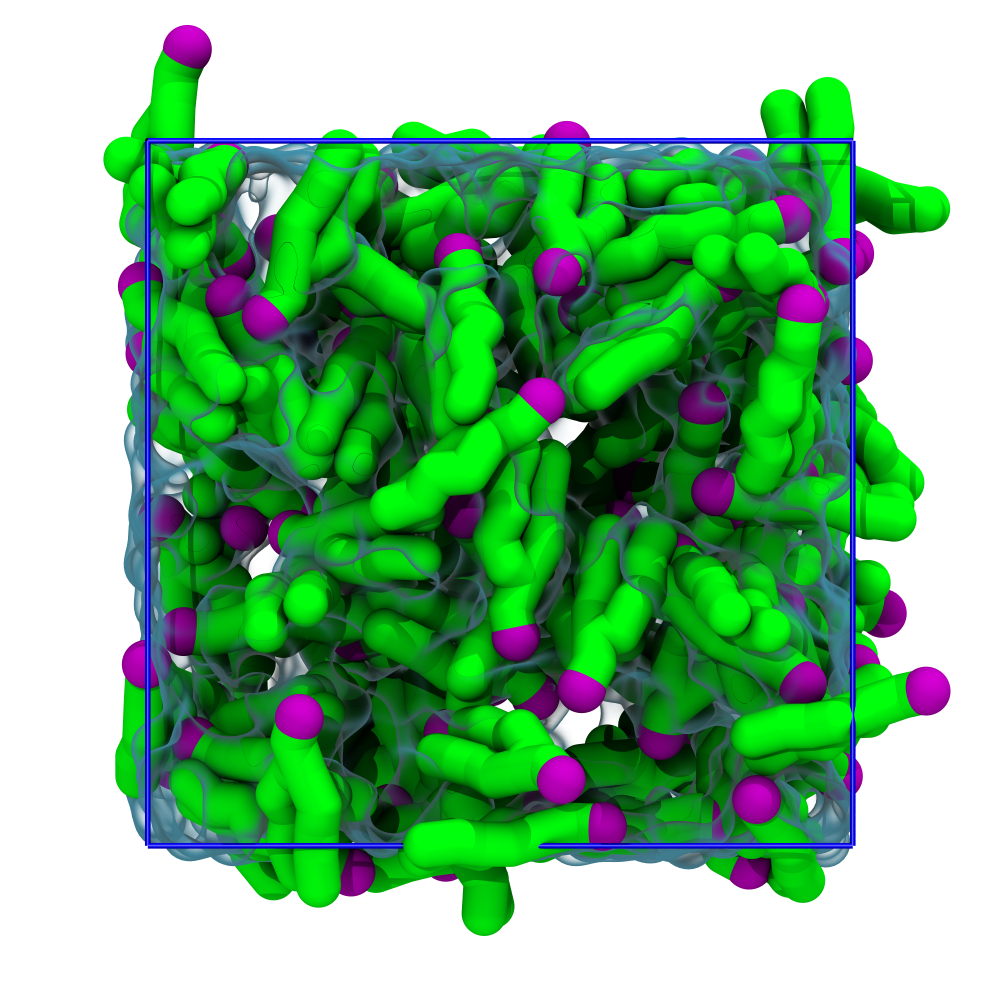
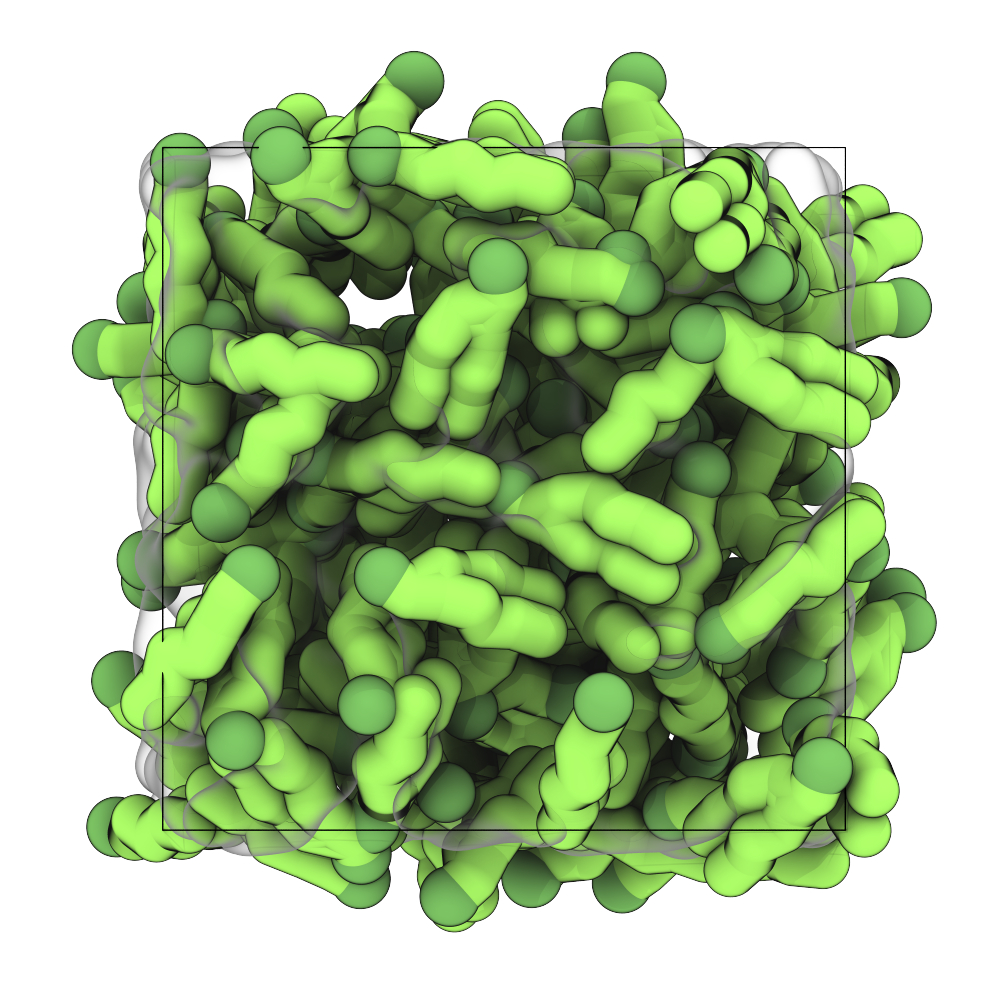
Update figures for Martini bilayer tutorial

diff --git a/Martini/01_bilayer_self_assembly/tutorial.md b/Martini/01_bilayer_self_assembly/tutorial.md
@@ -46,7 +46,10 @@ cd 01_bilayer_self_assembly
 
 ## 1. Prepare the starting structure
 
-<img align="right" width="25%" src="../figures/01_POPC_CG.png">
+<div align="right">
+    <img width="25%" src="../figures/01_POPC_CG.png">
+    <sub><i>Figure 1. Martini 3 representation of a POPC lipid.</i></sub>
+</div>
 
 We use POPC (1-palmitoyl-2-oleoyl-*sn*-glycero-3-phosphocholine) as our model
 lipid. It is one of the more abundant lipids in the JCVI-Syn3A minimal cell.
@@ -152,7 +155,7 @@ appears at the bottom of `topol.top`.
 <div align="center">
 <img src="../figures/01_initial_structure.png" width="50%"/>
 <br>
-<sub><i>Figure 1. Starting structure: a random configuration of POPC lipids in water.</i></sub>
+<sub><i>Figure 2. Starting structure: a random configuration of POPC lipids in water.</i></sub>
 </div>
 
 ---
@@ -186,10 +189,25 @@ This takes about 10 minutes on a single CPU; by default `gmx mdrun` uses all
 available CPUs. The `-v` flag shows an estimated time to completion. See
 `gmx mdrun -h` for options on tuning the parallel threads.
 
-<div align="center">
-<img src="../figures/01_bilayer.png" width="50%"/>
-<br>
-<sub><i>Figure 2. Self-assembled lipid bilayer after the MD run.</i></sub>
+<div id="image-table">
+    <table>
+	    <tr>
+    	    <td style="padding:10px" width="50%">
+                <img src="../figures/01_bilayer_inverted.png"/>
+      	    </td>
+    	    <td style="padding:10px" width="50%" float="center">
+                <img src="../figures/01_bilayer_centered.png"/>
+            </td>
+        </tr>
+    </table>
+    <sub><i>
+        Figure 3. Left. A typical result after self-assembly. It is common for
+        the bilayer to appear inverted, but in reality the bilayer center simply
+        spans the periodic boundary conditions.<br>
+        Right. The same bilayer, but translated such that the bilayer is placed
+        in the center of the box. This centered representation is common, but
+        both are correct.
+    </i></sub>
 </div>
 
 ---
@@ -238,7 +256,7 @@ Then open the trajectory:
 vmd2 md/md.tpr md/md_whole.xtc
 ```
 
-Your VMD window should look similar to Figure 2.
+Your VMD window should look similar to one of the panels in Figure 3.
 
 ---
 
